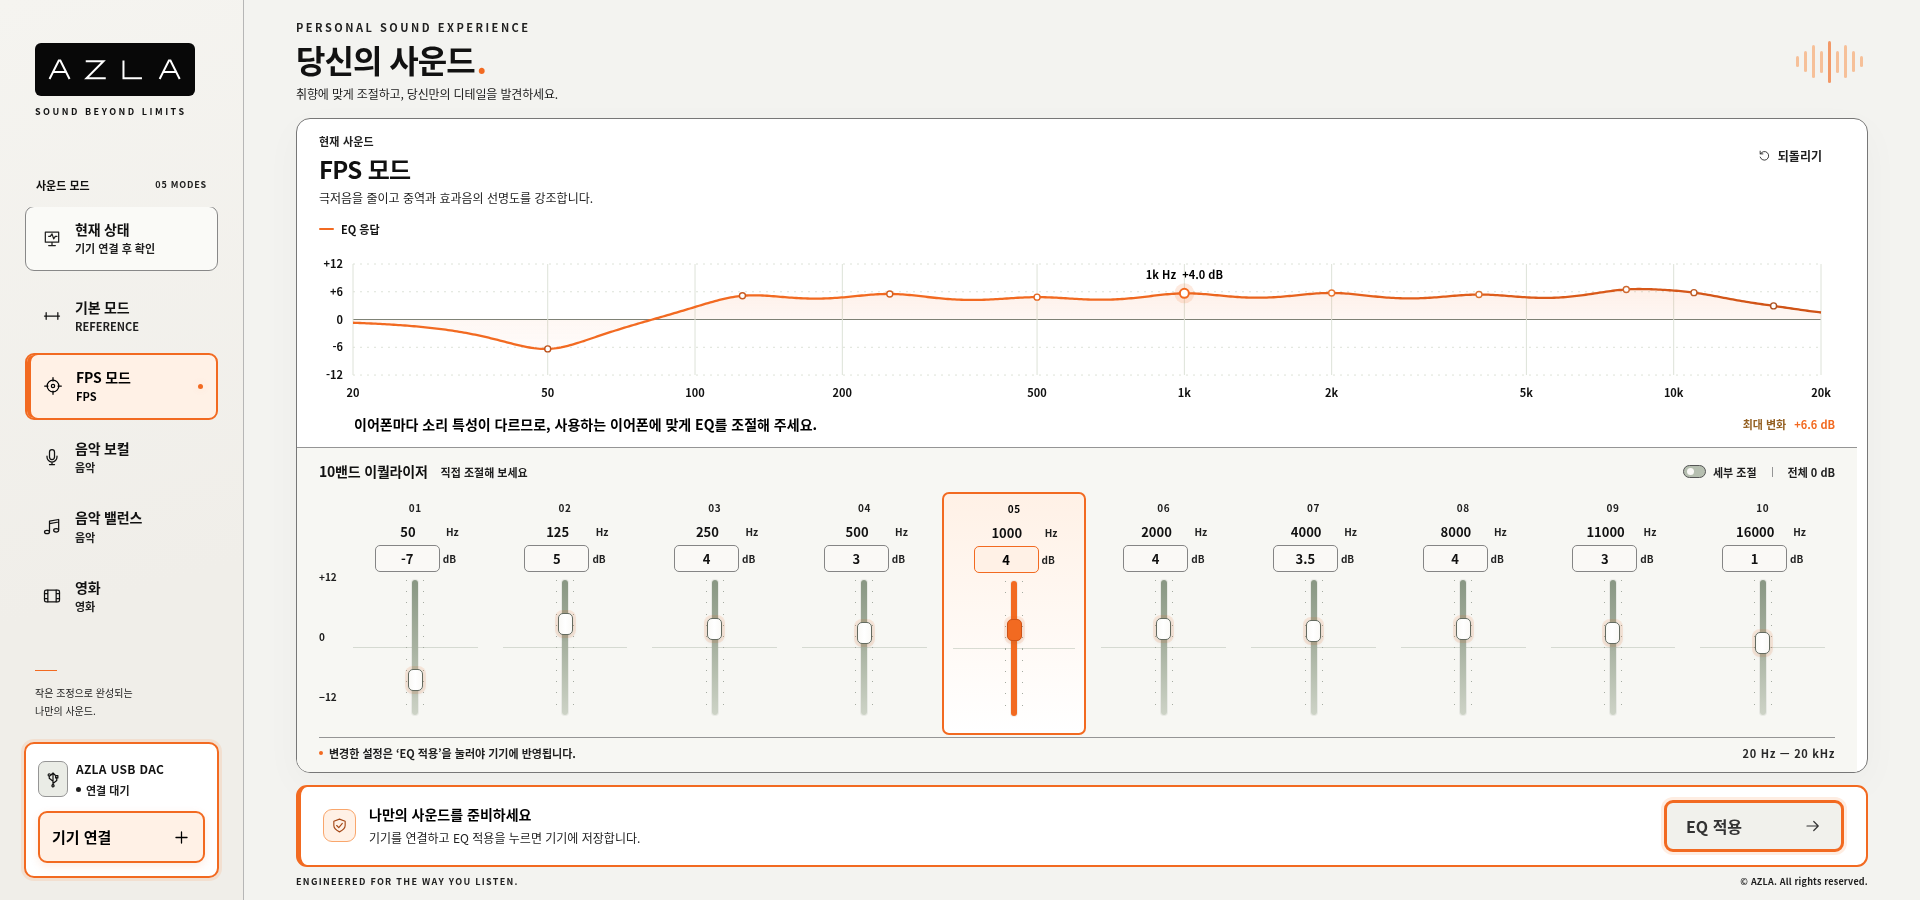
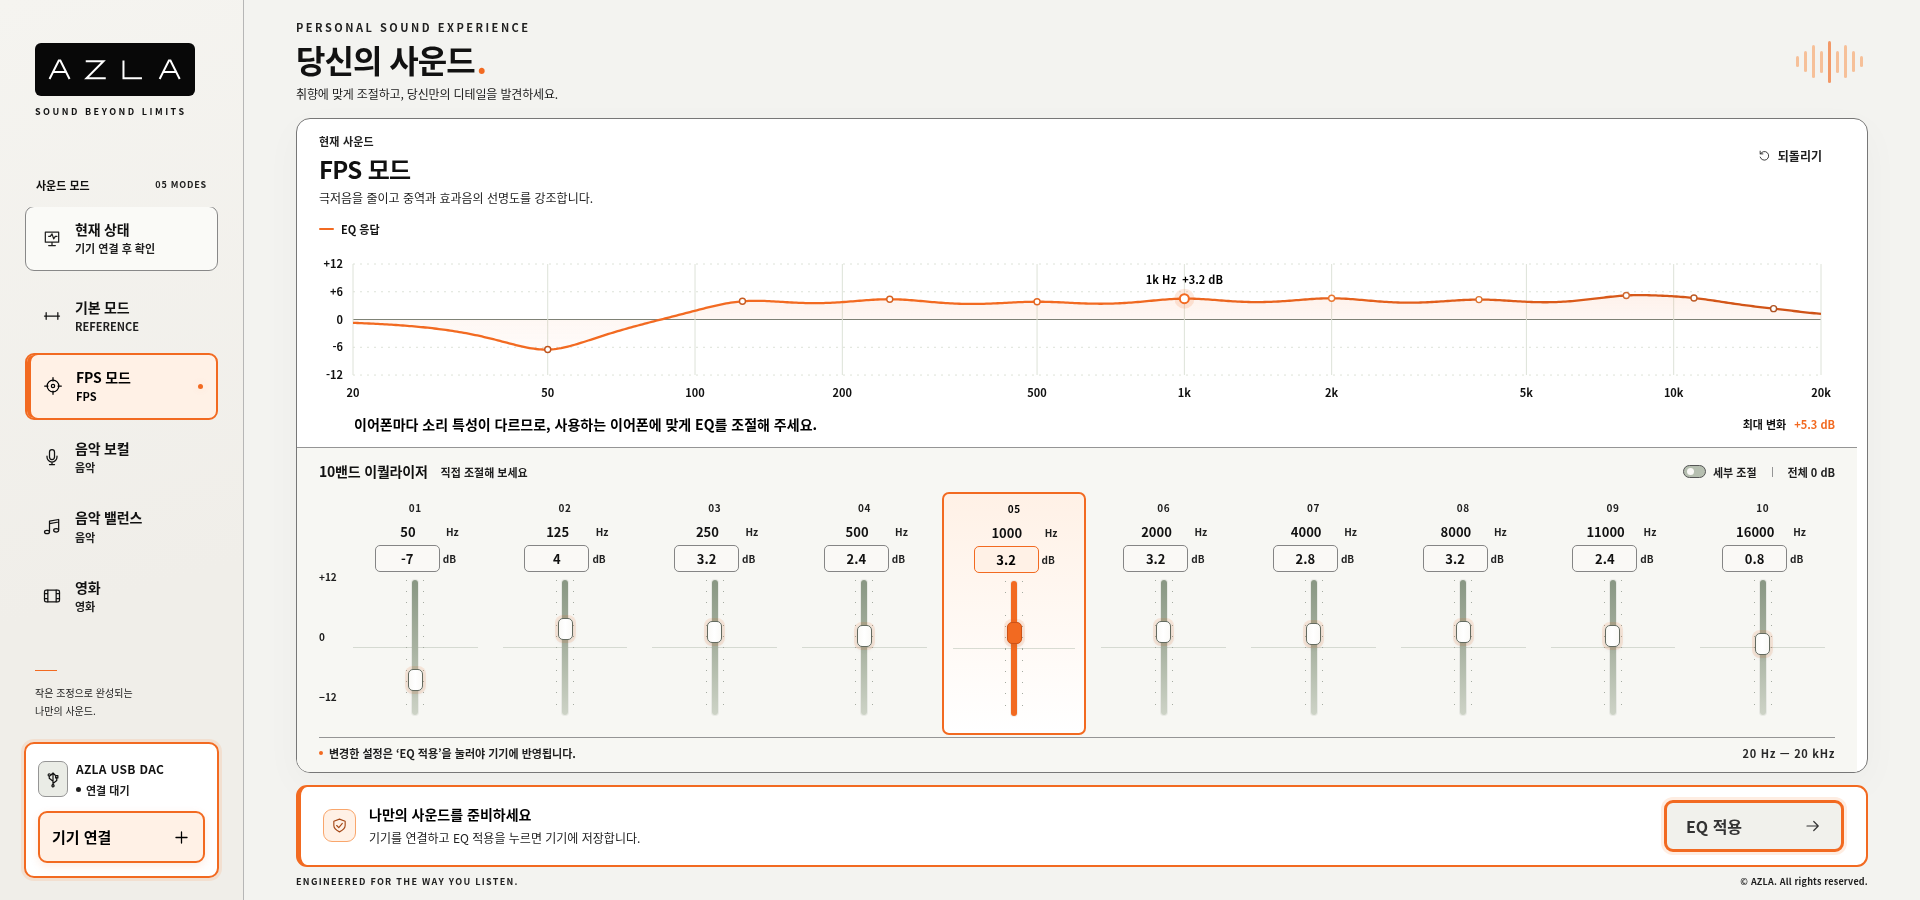
Keep stock EQ presets below the clipping warning threshold

diff --git a/src/eq.js b/src/eq.js
@@ -2,6 +2,7 @@
  * AZLA EQ data and offline response model.
  * Analytic curves are previews, not vendor coefficients or acoustic measurements.
  * Starting points follow manufacturer preset screenshots with Q fixed to 1.4.
+ * FPS/cinema positive gains are scaled to 80% to keep combined peaks below 6 dB.
  * They are not measured corrections for any particular earphone.
  */
 export const BANDS = 10;
@@ -12,7 +13,7 @@ export const SAMPLE_RATE = 96000;
 export const FILTERS = Object.freeze({
   1: 'LOW SHELF', 2: 'PEAK', 3: 'HIGH SHELF', 4: 'LOW PASS', 5: 'HIGH PASS'
 });
-export const PRESET_REFERENCE = '제조사 프리셋 화면 기반 · 공통 Q 1.4 적용 · 이어폰별 조절 필요';
+export const PRESET_REFERENCE = '제조사 프리셋 화면 기반 · 공통 Q 1.4 · FPS/영화 부스트 80% 조정 · 이어폰별 조절 필요';
 
 function makeEq(gains = Array(BANDS).fill(0), options = {}) {
   return {
@@ -33,13 +34,13 @@ const preset = (id, name, category, description, icon, gains, options) => ({
 export const PRESETS = [
   preset('flat', '기본 모드', 'REFERENCE', '원래의 소리를 그대로. 모든 밴드 0 dB.', 'flat', Array(BANDS).fill(0), {tag: 13}),
   preset('fps', 'FPS 모드', 'FPS', '극저음을 줄이고 중역과 효과음의 선명도를 강조합니다.', 'crosshair',
-    [-7,5,4,3,4,4,3.5,4,3,1], {tag: 11, freqs: MANUFACTURER_FREQUENCIES}),
+    [-7,4,3.2,2.4,3.2,3.2,2.8,3.2,2.4,0.8], {tag: 11, freqs: MANUFACTURER_FREQUENCIES}),
   preset('vocal', '음악 보컬', '음악', '저음과 초고역을 정리하고 목소리의 중역을 앞으로 가져옵니다.', 'mic',
     [-3,-2,-3,-3,3,2,4,4,-1,-2], {tag: 16}),
   preset('music-balanced', '음악 밸런스', '음악', '중역은 유지하면서 저음과 고음을 부드럽게 보완합니다.', 'music',
     [1.5,1.5,0.5,0,0,0,0,0.5,0.5,1], {tag: 12, reference: '자체 조정 음악 밸런스 · 중역 유지와 완만한 저·고역 보완'}),
   preset('cinema', '영화', '영화', '저음의 웅장함과 대사·효과음의 선명도를 함께 살립니다.', 'film',
-    [3,4,5,2,0,4,2,4.5,2,2], {tag: 20, freqs: MANUFACTURER_FREQUENCIES})
+    [2.4,3.2,4,1.6,0,3.2,1.6,3.6,1.6,1.6], {tag: 20, freqs: MANUFACTURER_FREQUENCIES})
 ];
 for (const entry of PRESETS) {
   for (const value of Object.values(entry.eq)) if (Array.isArray(value)) Object.freeze(value);

diff --git a/app.js b/app.js
@@ -387,7 +387,7 @@ async function initialize() {
   $('supportStatus').textContent = window.isSecureContext && navigator.hid ? 'WebHID 지원' : 'Windows Chrome / Edge 필요';
   $('sdkStatus').textContent = SDK?.default ? '원본 SDK 준비됨' : '제조사 SDK 본체 추가 필요';
   $('connectionHelp').textContent = [!SDK?.default ? '제조사 SDK 본체가 아직 포함되지 않았습니다.' : '', connectionMode === 'manufacturer' ? '기존 프로그램과 같은 장치 검색 방식을 사용합니다. 사용 중인 AZLA DAC를 선택해 주세요.' : !devices.length ? '최종 제품의 USB 식별 정보 등록이 필요합니다.' : '', configError ? '장치 설정 파일을 읽을 수 없습니다.' : '', 'EQ 적용을 누르면 현재 설정 1개를 기기에 저장합니다.'].filter(Boolean).join(' ');
-  const note = document.createElement('p'); note.className = 'help-text preset-reference-note'; note.textContent = `${PRESET_REFERENCE}. FPS·보컬·영화는 제조사 설정값을 참고하고 Q를 1.4로 통일했습니다. 음악 밸런스는 별도 완만한 튜닝이며, 사용하는 이어폰에 맞게 조절해 주세요.`;
+  const note = document.createElement('p'); note.className = 'help-text preset-reference-note'; note.textContent = `${PRESET_REFERENCE}. 제조사 설정값을 참고하고 Q를 1.4로 통일했으며, FPS·영화는 합성 상승을 줄이도록 양의 게인을 80%로 조정했습니다. 음악 밸런스는 별도 완만한 튜닝이며, 사용하는 이어폰에 맞게 조절해 주세요.`;
   $('settingsDialog').querySelector('.settings-section').append(note);
   const discoverRow = document.createElement('div'); discoverRow.className = 'discovery-row';
   const inspect = document.createElement('button'); inspect.type = 'button'; inspect.id = 'inspectDeviceBtn'; inspect.className = 'secondary-button'; inspect.textContent = '연결된 장치 확인';

diff --git a/tests/eq.test.js b/tests/eq.test.js
@@ -75,16 +75,16 @@ test('five production sound modes use the requested bands, gains and shared 1.4 
   assert.ok(QS.every(q=>q===1.4));
   const expected={
     flat:[0,0,0,0,0,0,0,0,0,0],
-    fps:[-7,5,4,3,4,4,3.5,4,3,1],
+    fps:[-7,4,3.2,2.4,3.2,3.2,2.8,3.2,2.4,0.8],
     vocal:[-3,-2,-3,-3,3,2,4,4,-1,-2],
     'music-balanced':[1.5,1.5,0.5,0,0,0,0,0.5,0.5,1],
-    cinema:[3,4,5,2,0,4,2,4.5,2,2]
+    cinema:[2.4,3.2,4,1.6,0,3.2,1.6,3.6,1.6,1.6]
   };
   for (const preset of PRESETS) {
     validateEq(preset.eq);
     assert.ok(Object.isFrozen(preset.eq.gains));
     assert.deepEqual(preset.eq.freqs,['fps','cinema'].includes(preset.id)?[50,125,250,500,1000,2000,4000,8000,11000,16000]:[31,62,125,250,500,1000,2000,4000,8000,16000]);
-    assert.ok(Number.isFinite(peakResponse(buildAnalyticModel(preset.eq)).db),preset.id);
+    assert.ok(peakResponse(buildAnalyticModel(preset.eq)).db<=5.5,`${preset.id}: leave margin below the 6 dB warning`);
     assert.ok(preset.eq.qs.every(q=>q===1.4),preset.id);
     assert.ok(preset.eq.filterTypes.every(type=>type===2),preset.id);
     assert.deepEqual(preset.eq.gains,expected[preset.id]);
@@ -94,8 +94,6 @@ test('five production sound modes use the requested bands, gains and shared 1.4 
     }
   }
   assert.ok(expected.fps[0]<0 && expected.fps[6]>0);
-  assert.ok(peakResponse(buildAnalyticModel(PRESETS.find(p=>p.id==='fps').eq)).db>6);
-  assert.ok(peakResponse(buildAnalyticModel(PRESETS.find(p=>p.id==='cinema').eq)).db>6);
   assert.ok(peakResponse(buildAnalyticModel(PRESETS.find(p=>p.id==='music-balanced').eq)).db<3);
   assert.ok(expected.vocal[6]>0 && expected.vocal[7]>0);
   assert.ok(expected['music-balanced'][0]>0 && expected.cinema[1]>0);

diff --git a/tests/vendor-sdk.test.js b/tests/vendor-sdk.test.js
@@ -11,7 +11,7 @@ import { createHash } from 'node:crypto';
 import {
   generateRamPlan, generatePlan, sdkGraphModel, DeviceController, TIMING, DISCOVERY_VIDS
 } from '../src/device.js';
-import { PRESETS, cloneEq, buildAnalyticModel, responseAt } from '../src/eq.js';
+import { PRESETS, cloneEq, buildAnalyticModel, responseAt, peakResponse } from '../src/eq.js';
 
 const source = readFileSync(new URL('../sdk/walk-play-web-eq-sdk.umd.js', import.meta.url), 'utf8');
 const quiet = Object.fromEntries(['log','debug','warn','error','info'].map(method => [method, () => {}]));
@@ -103,6 +103,7 @@ test('all five production modes produce finite real-SDK models agreeing with PEA
     const eq = cloneEq(preset.eq);
     const packets = await generateRamPlan(SDK, eq);
     const actual = sdkGraphModel(packets, eq), analytic = buildAnalyticModel(eq);
+    assert.ok(peakResponse(actual).db <= 5.5, `${preset.id}: SDK response must stay below the warning with margin`);
     for (let i = 0; i <= 128; i++) {
       const f = 20 * 1000 ** (i / 128);
       const value = responseAt(f, actual);

diff --git a/tests/browser_smoke.py b/tests/browser_smoke.py
@@ -75,7 +75,7 @@ with sync_playwright() as p:
     assert page.locator('.gain-slider').nth(4).input_value() == '2.5'
     page.locator('#resetBtn').click()
     assert page.locator('#profileName').inner_text() == 'FPS 모드'
-    assert page.locator('.band-gain input').nth(4).input_value() == '4'
+    assert page.locator('.band-gain input').nth(4).input_value() == '3.2'
     page.locator('#advancedToggle').check()
     q = page.locator('.band-q input').nth(0)
     q.fill('1.13'); q.press('Tab')
@@ -112,9 +112,7 @@ with sync_playwright() as p:
     assert page.evaluate('window.__writes.map(x=>x.bytes)') == [[128,9,0]]
     page.locator('[data-preset="fps"]').click()
     page.locator('#applyBtn').click()
-    assert page.locator('#riskDialog').is_visible()
-    assert len(page.evaluate('window.__writes')) == 1, 'No EQ writes before confirming the clipping warning'
-    page.locator('#confirmRiskBtn').click()
+    assert not page.locator('#riskDialog').is_visible(), 'FPS preset must apply without a warning'
     assert page.locator('#connectBtn').is_disabled()
     assert page.locator('.gain-slider').nth(0).is_disabled()
     page.wait_for_function("document.querySelector('#applyStatus').textContent==='Flash 저장 명령 전송 완료'", timeout=15000)
@@ -134,7 +132,23 @@ with sync_playwright() as p:
     page.locator('.band-gain input').nth(0).press('Tab')
     assert len(page.evaluate('window.__writes')) == 14
     assert page.locator('#applyStatus').inner_text() == '적용할 준비가 되었습니다'
+    for mode in ['flat','vocal','music-balanced','cinema']:
+        page.locator(f'[data-preset="{mode}"]').click()
+        page.wait_for_timeout(200)
+        page.locator('#applyBtn').click()
+        assert not page.locator('#riskDialog').is_visible(), f'{mode} must apply without a warning'
+        page.wait_for_function("document.querySelector('#applyStatus').textContent==='Flash 저장 명령 전송 완료'", timeout=15000)
+    # Manual boosts still require confirmation: the warning itself remains active.
+    page.locator('[data-preset="flat"]').click()
+    gain = page.locator('.band-gain input').nth(4)
+    gain.fill('12'); gain.press('Tab')
+    page.wait_for_timeout(200)
+    before = len(page.evaluate('window.__writes'))
+    page.locator('#applyBtn').click()
+    assert page.locator('#riskDialog').is_visible()
+    assert len(page.evaluate('window.__writes')) == before
     assert not errors, errors
+    print('PASS: all five presets apply without clipping warnings; excessive manual boosts still warn')
     print('PASS: browser original SDK + mock HID Tag read, current-state snapshot, 10 EQ + RAM + Flash, UI lock, edited state')
     context.close()
     context = browser.new_context(viewport={'width':1366,'height':768})

diff --git a/docs/사운드_라이브러리_튜닝.md b/docs/사운드_라이브러리_튜닝.md
@@ -1,6 +1,6 @@
 # 사운드 모드 튜닝 근거
 
-사용자가 제공한 제조사 프리셋 화면의 주파수와 게인을 반영하고, 요청에 따라 Q만 모두 1.4로 통일했습니다. 제조사 게임은 FPS 모드, 부드러운은 음악 보컬, 영화는 영화로 대응했습니다. 음악 밸런스는 별도로 완만하게 조정했습니다. 이어폰별 실측 보정값은 아닙니다.
+사용자가 제공한 제조사 프리셋 화면의 주파수와 게인을 참고하고, 요청에 따라 Q를 모두 1.4로 통일했습니다. 클리핑 안내 기준 아래로 조정하기 위해 FPS·영화의 양의 게인만 80%로 낮췄으며, 음의 게인은 유지했습니다. 제조사 게임은 FPS 모드, 부드러운은 음악 보컬, 영화는 영화로 대응했습니다. 음악 밸런스는 별도로 완만하게 조정했습니다. 이어폰별 실측 보정값은 아닙니다.
 
 메뉴는 현재 상태, 기본 모드, FPS 모드, 음악 보컬, 음악 밸런스, 영화 순서입니다. 현재 상태는 저장 기록·기기 Tag 확인용이며 별도 프리셋이 아닙니다.
 
@@ -8,8 +8,8 @@
 
 | 모드 | 50 | 125 | 250 | 500 | 1k | 2k | 4k | 8k | 11k | 16k |
 |---|---:|---:|---:|---:|---:|---:|---:|---:|---:|---:|
-| FPS 모드 | -7 | +5 | +4 | +3 | +4 | +4 | +3.5 | +4 | +3 | +1 |
-| 영화 | +3 | +4 | +5 | +2 | 0 | +4 | +2 | +4.5 | +2 | +2 |
+| FPS 모드 | -7 | +4 | +3.2 | +2.4 | +3.2 | +3.2 | +2.8 | +3.2 | +2.4 | +0.8 |
+| 영화 | +2.4 | +3.2 | +4 | +1.6 | 0 | +3.2 | +1.6 | +3.6 | +1.6 | +1.6 |
 
 | 모드 | 31 | 62 | 125 | 250 | 500 | 1k | 2k | 4k | 8k | 16k |
 |---|---:|---:|---:|---:|---:|---:|---:|---:|---:|---:|
@@ -19,7 +19,7 @@
 
 음악 밸런스는 제조사의 인기 모드를 그대로 복사하지 않고 중역을 유지하며 저음·고음을 조금 보완했습니다. 합성 응답의 예상 최대 상승은 약 +1.9 dB입니다.
 
-기존 수동 조절 범위 ±12 dB, 전체 출력 자동 보정 없음, 예상 상승이 6 dB를 초과할 때의 안내를 유지했습니다. Q 1.4 적용 후 SDK 계수로 계산한 최대 상승은 FPS 약 +6.6 dB, 영화 약 +6.4 dB, 보컬 약 +5.2 dB입니다. FPS·영화는 적용 전 기존 클리핑 안내가 표시됩니다. 제조사 화면의 전체 레벨 보정 여부가 확인되지 않아 그래프 모양이나 감쇄량은 복사하지 않았으며, Q 변경으로 원래 제조사 설정과 응답 폭이 달라집니다.
+기존 수동 조절 범위 ±12 dB, 전체 출력 자동 보정 없음, 예상 상승이 6 dB를 초과할 때의 안내를 유지했습니다. 조정 후 SDK 계수로 계산한 최대 상승은 FPS 약 +5.3 dB, 영화 약 +5.1 dB, 보컬 약 +5.2 dB입니다. 모든 기본 프리셋은 안내 기준보다 여유를 두어 5.5 dB 이하이며, 기본값으로 적용하면 클리핑 안내가 표시되지 않습니다. 수동 편집으로 기준을 넘으면 기존 안내가 표시됩니다. 이는 안내 기준 충족이며 실제 출력에서 클리핑이 없다는 보증은 아닙니다. 제조사 화면의 전체 레벨 보정 여부가 확인되지 않아 그래프 모양이나 감쇄량은 복사하지 않았으며, Q 변경으로 원래 제조사 설정과 응답 폭이 달라집니다.
 
 기존 기본 모드·음악·영화·FPS의 기기 Tag는 유지하고 추가 FPS 2개는 메뉴에서 제거했습니다. 이전 기기에 마지막으로 전송한 기록은 임의로 새 튜닝값으로 덮어쓰지 않습니다. 기기 Tag에 해당하는 프리셋을 추론하는 값과 실제 마지막 전송 기록은 기존 화면 설명으로 구분합니다.
 

diff --git a/README.md b/README.md
@@ -39,7 +39,7 @@ Windows 단독 실행본은 [Releases](https://github.com/tjdrua1123-art/AZLA/re
 
 기본 검증 32개와 **원본 SDK + 모의 HID 통합 검증 11개**, 총 43개가 통과했습니다. 실제 Tag 읽기 명령과 마지막 Flash 전송값 대조를 모의 HID로 확인했습니다. 실제 Flash 명령이 3바이트임을 확인하고, 이를 7바이트로 잘못 검사하던 새 코드의 오류를 수정했습니다. SDK 원본은 변경하지 않았습니다.
 
-사용자는 기존 프로그램에서 실제 Flash 저장이 동작했다고 확인했습니다. 이 환경에는 실제 DAC가 없어 **새 버전의 기기 통신과 전원 재연결 후 보존은 실기로 확인해야 합니다.** 완료 표시는 저장 명령 전송 완료입니다. FPS·보컬·영화는 제공된 제조사 화면의 주파수·게인에 Q 1.4를 적용했고, 음악 밸런스는 별도로 완만하게 조정했습니다. 최종값은 청음·측정으로 확정해야 합니다.
+사용자는 기존 프로그램에서 실제 Flash 저장이 동작했다고 확인했습니다. 이 환경에는 실제 DAC가 없어 **새 버전의 기기 통신과 전원 재연결 후 보존은 실기로 확인해야 합니다.** 완료 표시는 저장 명령 전송 완료입니다. FPS·보컬·영화는 제공된 제조사 화면을 바탕으로 Q 1.4를 적용하고 FPS·영화의 양의 게인을 80%로 조정했고, 음악 밸런스는 별도로 완만하게 조정했습니다. 최종값은 청음·측정으로 확정해야 합니다.
 
 - [사용 방법](docs/사용방법.md)
 - [사운드 라이브러리 튜닝 근거](docs/사운드_라이브러리_튜닝.md)
